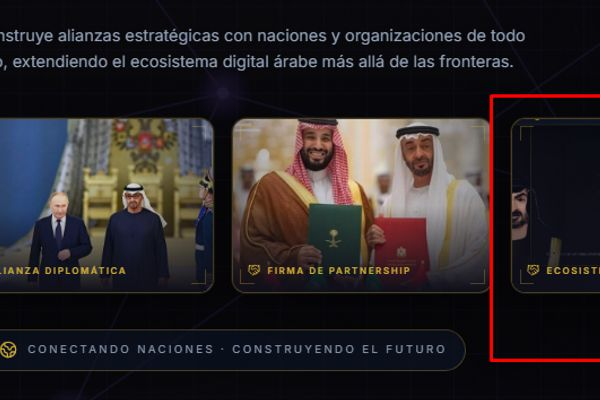
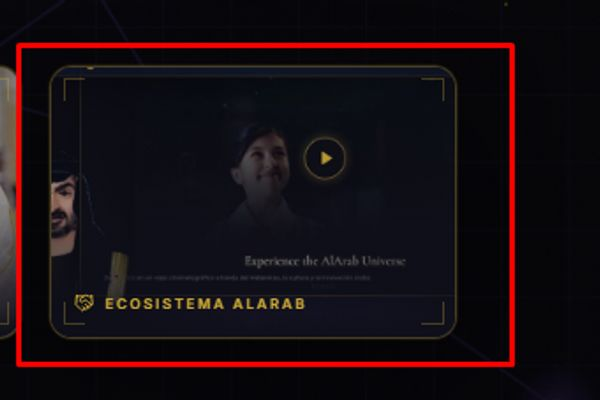
feat: replace alliance photos with new images (6 photos in 3-column grid)

diff --git a/src/components/al-arab/sections/international-alliances.tsx b/src/components/al-arab/sections/international-alliances.tsx
@@ -11,6 +11,8 @@ const PHOTOS = [
   { src: '/partners-photos/partner-2.jpg', alt: 'Diplomatic alliance — Russia' },
   { src: '/partners-photos/partner-3.jpg', alt: 'Strategic partnership signing' },
   { src: '/partners-photos/partner-4.jpg', alt: 'AlArab ecosystem showcase' },
+  { src: '/partners-photos/partner-5.jpg', alt: 'Global diplomatic summit' },
+  { src: '/partners-photos/partner-6.jpg', alt: 'International cooperation meeting' },
 ]
 
 export function InternationalAlliancesSection() {
@@ -42,7 +44,7 @@ export function InternationalAlliancesSection() {
       />
 
       {/* Photo gallery — 6 photos now, 3 columns on desktop */}
-      <div className="mt-12 grid grid-cols-1 gap-5 sm:grid-cols-2 lg:grid-cols-4">
+      <div className="mt-12 grid grid-cols-1 gap-5 sm:grid-cols-2 lg:grid-cols-3">
         {PHOTOS.map((photo, i) => (
           <motion.figure
             key={i}

diff --git a/scripts/process-new-alliance-photos.ts b/scripts/process-new-alliance-photos.ts
@@ -1,0 +1,17 @@
+import sharp from 'sharp'
+
+async function main() {
+  await sharp('/home/z/my-project/upload/pasted_image_1788950148947.png')
+    .resize(600, 400, { fit: 'cover', position: 'center' })
+    .jpeg({ quality: 80 })
+    .toFile('/home/z/my-project/public/partners-photos/partner-5.jpg')
+  console.log('Generated partner-5.jpg')
+
+  await sharp('/home/z/my-project/upload/pasted_image_1788950172822.png')
+    .resize(600, 400, { fit: 'cover', position: 'center' })
+    .jpeg({ quality: 80 })
+    .toFile('/home/z/my-project/public/partners-photos/partner-6.jpg')
+  console.log('Generated partner-6.jpg')
+}
+
+main().catch(console.error)
